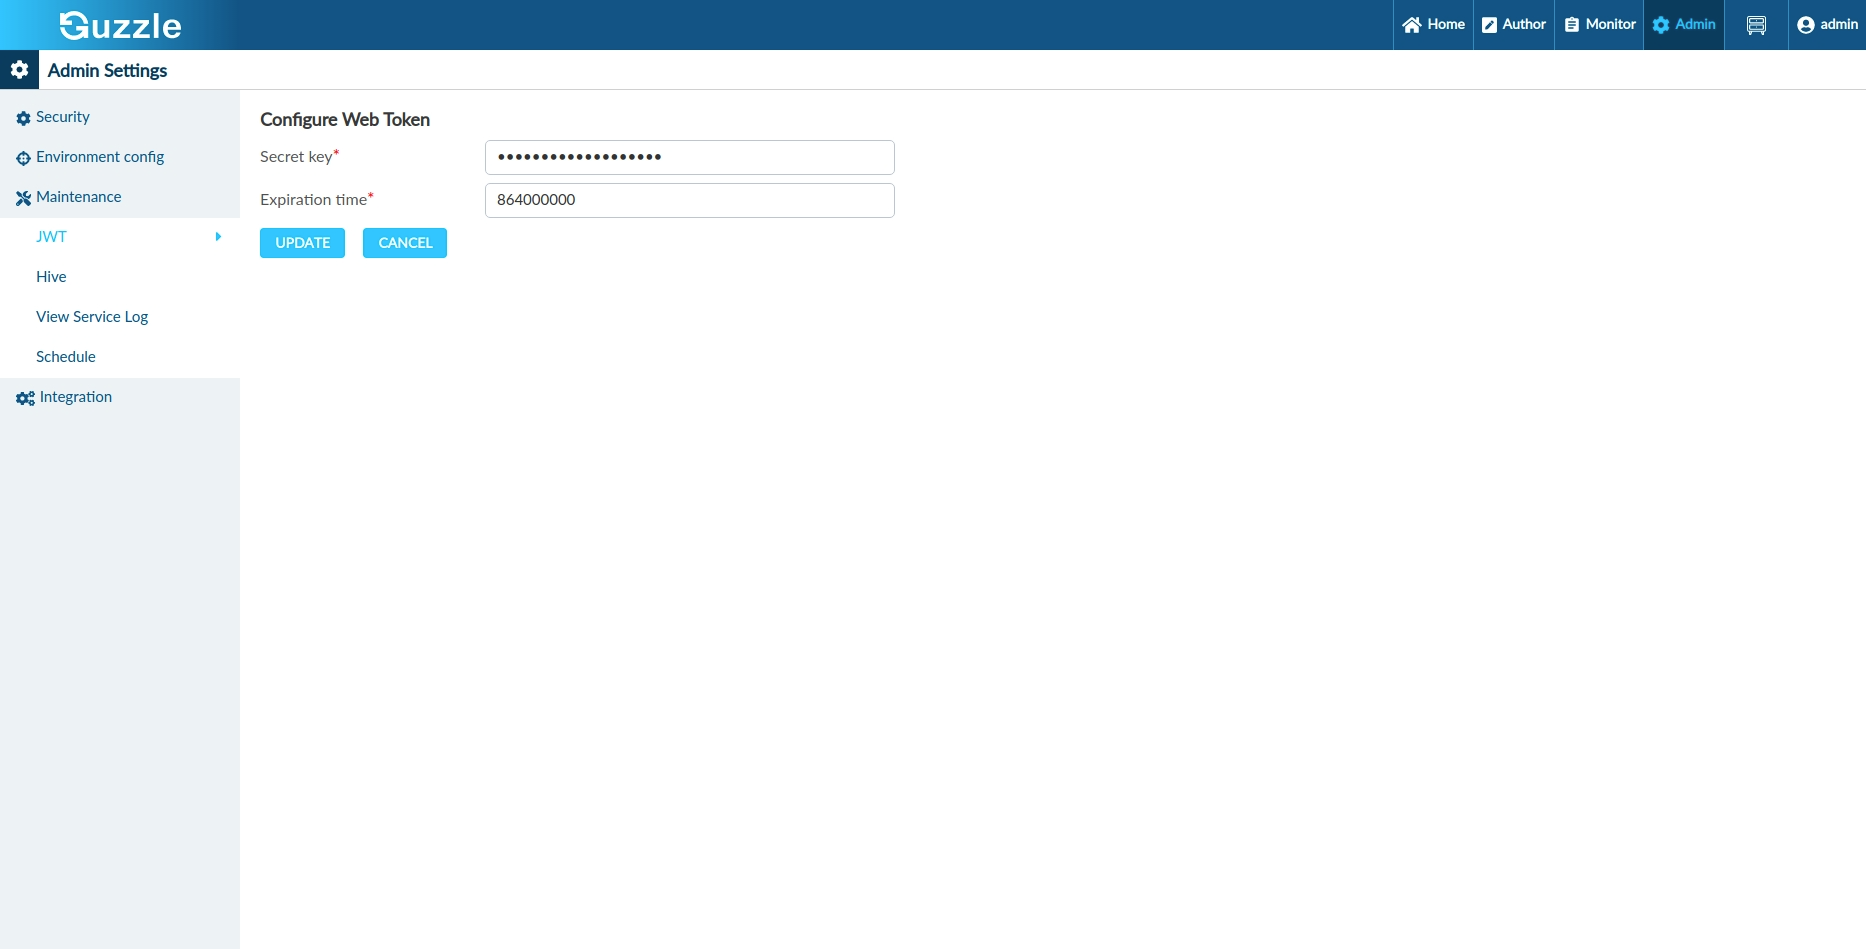
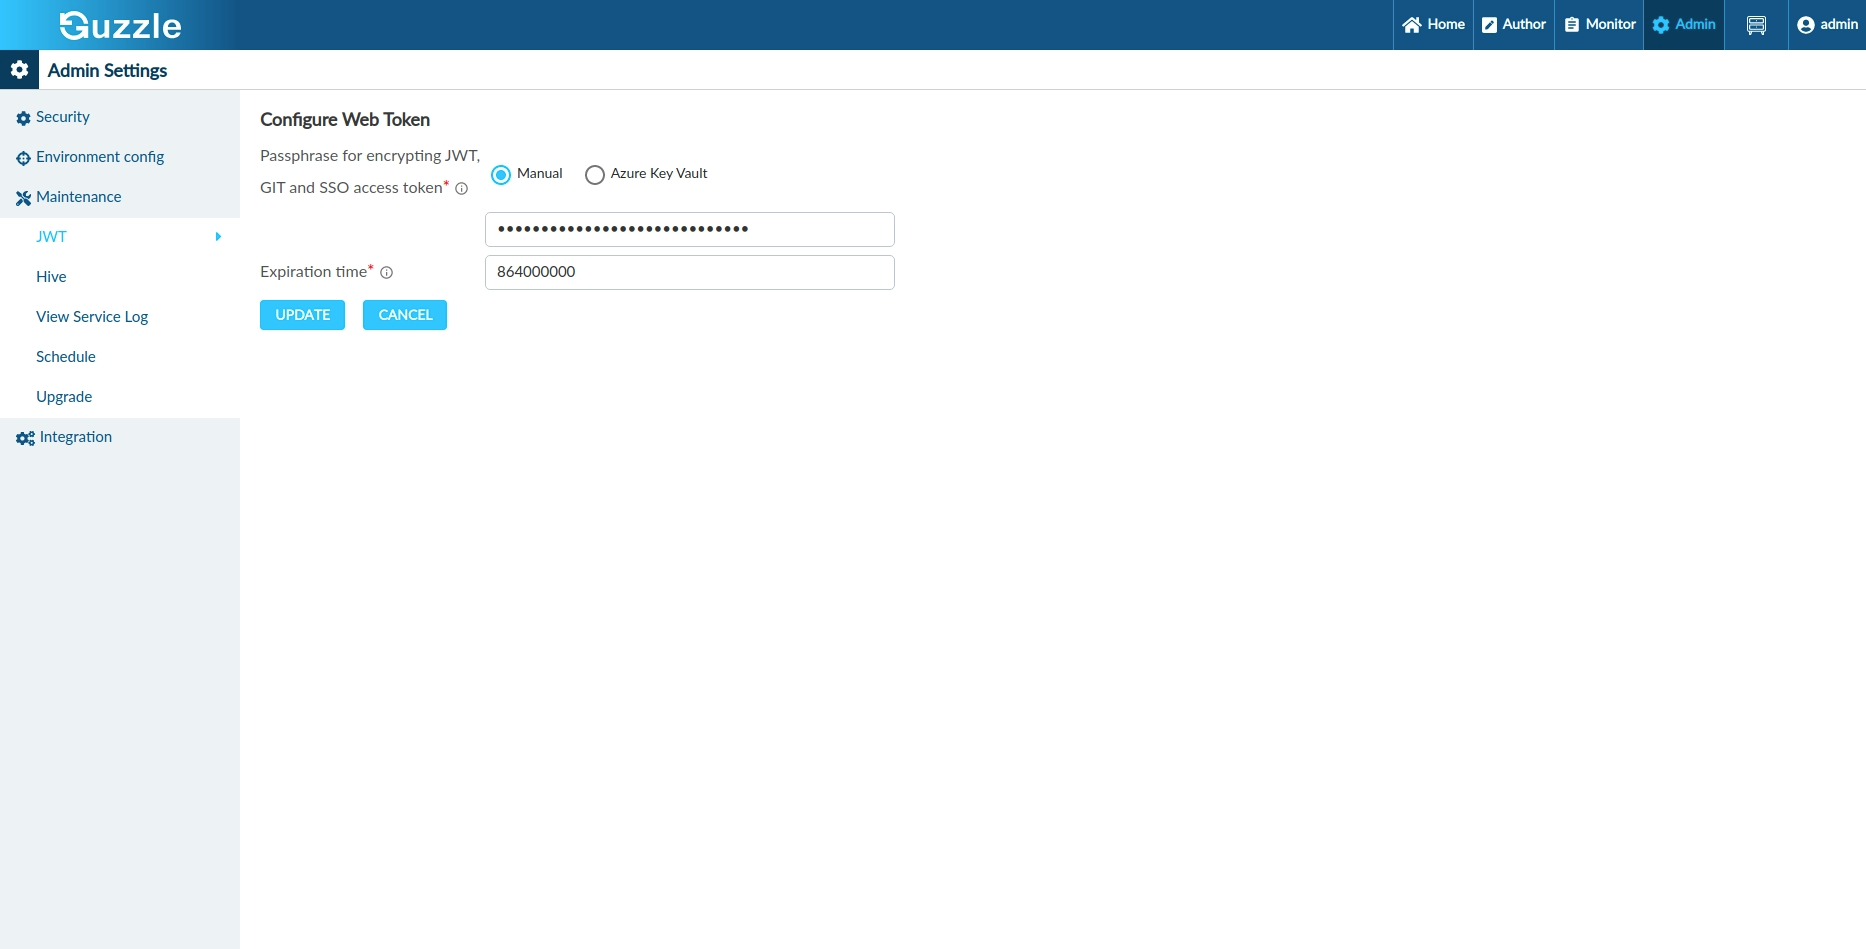
jwt file is updated and sequence of ingest-data module is maintained.

diff --git a/sidebars.js b/sidebars.js
@@ -98,27 +98,27 @@ module.exports = {
       },
       {
         'Ingest data': [
-          'How to guides/Ingest data/Column Restrictions - Exclude and Include Columns',
-          'How to guides/Ingest data/Configure Control File',
-          'How to guides/Ingest data/Ingest Data from Local file system to MySQL Database',
-          'How to guides/Ingest data/Moving Processed Files',
-          'How to guides/Ingest data/Pre-SQL and Post-SQL for Source and Target in Ingestion',
-          'How to guides/Ingest data/Processing',
-          'How to guides/Ingest data/Watermark',
+          'How to guides/Ingest data/Working with Delimited Files',
+          'How to guides/Ingest data/Working with JSON Files',
+          'How to guides/Ingest data/Working with XML files',
+          'How to guides/Ingest data/Working with Text and Log Files',
+          'How to guides/Ingest data/Working with Excel',
+          'How to guides/Ingest data/Working with Fixed Length Files',
           'How to guides/Ingest data/Working with Big Data',
+          'How to guides/Ingest data/Working with Multiple files',
+          'How to guides/Ingest data/Working with Hive and Delta',
+          'How to guides/Ingest data/Working with Databases- JDBC',
           'How to guides/Ingest data/Working with Databases- Azure SQL',
           'How to guides/Ingest data/Working with Databases- Azure Synapse Analytics',
           'How to guides/Ingest data/Working with Databases- HIVE',
-          'How to guides/Ingest data/Working with Databases- JDBC',
-          'How to guides/Ingest data/Working with Delimited Files',
-          'How to guides/Ingest data/Working with Excel',
-          'How to guides/Ingest data/Working with Fixed Length Files',
-          'How to guides/Ingest data/Working with Hive and Delta',
-          'How to guides/Ingest data/Working with JSON Files',
-          'How to guides/Ingest data/Working with Multiple files',
-          'How to guides/Ingest data/Working with Text and Log Files',
-          'How to guides/Ingest data/Working with XML files', 
-          'How to guides/Ingest data/Rest as Source and Target'
+          'How to guides/Ingest data/Working with Rest',
+          'How to guides/Ingest data/Column Restrictions - Exclude and Include Columns',
+          'How to guides/Ingest data/Configure Control File',
+          'How to guides/Ingest data/Moving Processed Files',
+          'How to guides/Ingest data/Processing',
+          'How to guides/Ingest data/Watermark',
+          'How to guides/Ingest data/Pre-SQL and Post-SQL for Source and Target in Ingestion',
+          'How to guides/Ingest data/Ingest Data from Local file system to MySQL Database'
         ]
       },
       {

diff --git a/docs/How to guides/Administration/Maintenance/JWT.md b/docs/How to guides/Administration/Maintenance/JWT.md
@@ -1,15 +1,19 @@
-For authentication purposes guzzle uses json web token signature encryption. Guzzle will generate a encrypted token on User login. Generated tokens have 864000000 seconds default expiration time limit but, Users can  set expiration time for Json web tokens. For update expiration time you can follow below steps
+JSON Web Token (JWT) is an open standard (RFC 7519) that defines a compact and self-contained way for securely transmitting information between parties as a JSON object. So, for authentication purposes **Guzzle** uses json web token signature encryption.
+
+Guzzle will generate a encrypted token on User login. Generated tokens have 864000000 seconds default expiration time limit but, Users can  set expiration time for Json web tokens. For update expiration time you can follow below steps :
 
 1 : Goto Admin from top navigation bar
 
 2 : Goto Maintenance and click on JWT
 
-3 : Update Expiration time in seconds
+3 : Enter following configuration details : 
 
 |Properties|Default Value|Description|
 |--- |--- |--- |
-|Passphrase for encrypting JWT, GIT and SSO access token||Guzzle will generate json web token(Secret Key) to authenticate user|
-|Expiration time||Guzzle generated JWT is valid through given Expiration Time|
+|Passphrase for encrypting JWT, GIT and SSO access token<br/>User can choose Manual or Azure Key vault|&lt; encrypted token in password form &gt;|Guzzle will generate json web token(Secret Key) to authenticate user|
+|Expiration time|864000000|Guzzle generated JWT is valid through given Expiration Time|
+|Key Vault Name (If Key Vault is choosen)||Name of Key vault where secret is stored.|
+|Secret Name (If Key Vault is choosen)||Name of secret where token is stored.|
 
 4 : Click on the Update
 

diff --git a/docs/How to guides/Ingest data/Working with JSON Files.md b/docs/How to guides/Ingest data/Working with JSON Files.md
@@ -12,17 +12,7 @@ JSON file support in Guzzle provides extensive features to specify file format d
 |--- |--- |--- |--- |--- |
 |Property|Description|Default Value|Available in Source Section|Available in Target Section|
 |Character Set|It refers to the Set of Characters used to Read/Write test files. Allowed Values include: UTF-8, UTF-16 etc.|UTF-8|✔|X|
-|Override JSON root path|It can be used to specify an object or location where we want to take our data from. For eg- If we want to focus on one particular column of our data we can specify the Column name here.
-  example :
-          {
-          "id" : 1,
-          "name" : {
-            "first_name" : "ABCD",
-            "last_name" : "XYZ"
-          },
-          "age" : 10
-          }
-	  if we give name as a value than it will fetch data first_name and last_name and consider name as a root node.|None|✔|X|
+|Override JSON root path|It can be used to specify an object or location where we want to take our data from. For eg- If we want to focus on one particular column of our data we can specify the Column name here.<br/>example :<br/>{<br/>"id" : 1,<br/>"name" : {<br/>"first_name" : "ABCD",<br/>"last_name" : "XYZ"<br/>},<br/>"age" : 10 <br/>}<br/>if we give name as a value than it will fetch data first_name and last_name and consider name as a root node.|None|✔|X|
 |Multi-Line|This is applicable when a single data record spans across multiple lines. This applies to both JSON files which are in array form or separate json documents.|False|✔|X|
 
 
